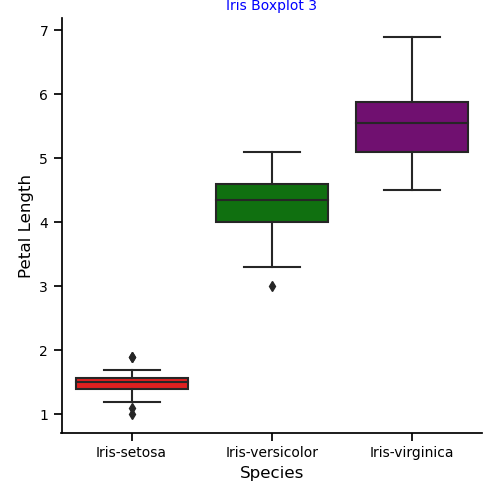
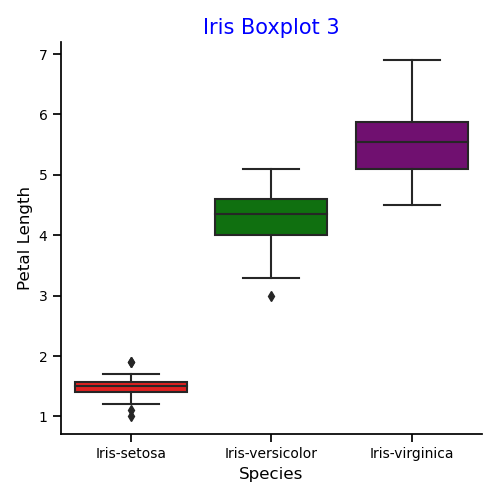
wokring on boxplots;scatter plots;updating readme file

diff --git a/visual.py b/visual.py
@@ -12,7 +12,6 @@ import seaborn as sns
 import pandas as pd 
 
 
-
 # Read in the original iris.data file and print its content
 iris = pd.read_csv('iris_ds.data', sep=',', header = None)
 print('The original file is with no column names:\n', iris)
@@ -43,6 +42,8 @@ def histplot(x):
                     wspace=0.5, 
                     hspace=1.0)            #adjusts spacing to make the subplots more legible
 
+# APPLYING THE FUNCTION TO PLOT INDIVIDUAL HISTOGRAMS
+
 plt.subplot(2,2,1)                         #set the number of (rows, columns, location) of each plot Top left
 histplot("Sepal Length")
 
@@ -54,131 +55,128 @@ histplot("Petal Length")
 
 plt.subplot(2,2,4)                          #Bottom right
 histplot("Petal Width")
+
 plt.savefig("Histogram_by features.png")    # save output image to png file
 plt.close()                                 # Close the plotting
 
-# This solution is for indovidually plotting a histogram for each feature
-plt.hist(iris2["Sepal Length"])
-plt.xlabel("cm")
-plt.ylabel("Count")
-plt.title("Sepal Length")
-plt.savefig("Hist_sepal_length.png")
+# SCATTER plots for each pair of the variables using Seaborn 
+# DEFINING A FUNCTION TO PLOT THE DESIRED GRAPH
+def scatter(x, y):
+    sns.set_context("notebook")
+    custom_palette=["red","green","purple"]
+    sns.set_palette(custom_palette)
+    g=sns.relplot(data=iris2, kind="scatter", hue="Species", x=x, y=y, height=5)
+    g.set(xlabel=x, ylabel=y)
+    sns.move_legend(g, loc="upper center", bbox_to_anchor=(.5, .9), ncol = 3)
+    plt.title('Iris Data Scatter Plot', color = 'blue', size = 15, y = 1.2)
+    plt.tight_layout()
+    
+# APPLYING THE FUNCTION TO PLOT INDIVISUAL SCATTER PLOTS
+scatter("Sepal Length", "Sepal Width")
+plt.savefig('Iris_ScatterPlot1.png')
 plt.close()
 
-plt.hist(iris2["Sepal Width"])
-plt.xlabel("cm")
-plt.ylabel("Count")
-plt.title("Sepal Width")
-plt.savefig("Hist_sepal_width.png")
+scatter("Petal Length", "Petal Width")
+plt.savefig('Iris_ScatterPlot2.png')
 plt.close()
 
-plt.hist(iris2["Petal Length"])
-plt.xlabel("cm")
-plt.ylabel("Count")
-plt.title("Petal Length")
-plt.savefig("Hist_petal_length.png")
+scatter("Petal Length", "Sepal Length")
+plt.savefig('Iris_ScatterPlot3.png')
 plt.close()
 
-plt.hist(iris2["Petal Width"])
-plt.xlabel("cm")
-plt.ylabel("Count")
-plt.title("Petal Width")
-plt.savefig("Hist_petal_width.png")
+scatter("Sepal Width", "Petal Width")
+plt.savefig('Iris_ScatterPlot4.png')
 plt.close()
 
-# Create scatter plots for each pair of the variables
 
-sns.set_context("notebook")
-custom_palette=["red","green","purple"]
-sns.set_palette(custom_palette)
-g=sns.relplot(data=iris2, kind="scatter", hue="Species", x="Sepal Length", y="Sepal Width", height=5)
-g.set(xlabel="Sepal Length", ylabel="Sepal Width") 
-plt.title('Iris Data Scatter Plot 1', color = 'blue', size = 10)
-plt.savefig('IrisDataScatterPlot1.png')
-plt.close()
-
-sns.set_context("notebook")
-custom_palette=["red","green","purple"]
-sns.set_palette(custom_palette)
-g=sns.relplot(data=iris2, kind="scatter", hue="Species", x="Sepal Length", y="Petal Length")
-g.set(xlabel="Sepal Length", ylabel="Petal Length")
-plt.title('Iris Data Scatter Plot 2', color = 'blue', size = 10)
-plt.savefig('IrisDataScatterPlot2.png')
-plt.close()
-
-sns.set_context("notebook")
-custom_palette=["red","green","purple"]
-sns.set_palette(custom_palette)
-g=sns.relplot(data=iris2, kind="scatter", hue="Species", x="Sepal Length", y="Petal Width")
-g.set(xlabel="Sepal Length", ylabel="Petal Width")
-plt.title('Iris Data Scatter Plot 3', color = 'blue', size = 10)
-plt.savefig('IrisDataScatterPlot3.png')
-plt.close()
-
-sns.set_context("notebook")
-custom_palette=["red","green","purple"]
-sns.set_palette(custom_palette)
-g=sns.relplot(data=iris2, kind="scatter", hue="Species", x="Petal Length", y="Petal Width")
-g.set(xlabel="Petal Length", ylabel="Petal Width")
-plt.title('Iris Data Scatter Plot 4', color = 'blue', size = 10)
-plt.savefig('IrisDataScatterPlot4.png')
-plt.close()
-
-# Create a matrix of plot using Seaborn PairGrid solution
-# Provides a faster and comprehensive summary of the individual pair plots
-# Helps understanding that data through clear visualization
+# Create a matrix of plots using Seaborn PairGrid solution
+# Provides a faster and more comprehensive summary of the individual pair plots
+# Helps understanding the data through clear visualization
 
 # This is to separate the attribute variables into a list
 features = ['Sepal Length', 'Sepal Width','Petal Length','Petal Width']
-# Use of Pairgrid setting diagonal plots to be histograms which will provide a distribution plot of each variable
+
+# Use of PAIRGRID setting diagonal plots to be histograms which will provide a distribution plot of each variable
 # Chose scatterplot to plot each individual data by the species of the flower
-g = sns.PairGrid(data=iris2, hue = "Species", vars = features, height=5, aspect=5/5)
-g.map_diag(sns.histplot)
-g.map_offdiag(sns.scatterplot)
-g.add_legend()
-g.fig.suptitle
-plt.title("Iris Data PairGrid Plot")
-plt.savefig('Iris_Features_PairPlot.png')
+
+g = sns.PairGrid(data=iris2, hue = "Species", vars = features, height=5, aspect=5/5) #hue is to group the data by different colours for the 3 species
+g.map_diag(sns.histplot)    #diagonal plots to be histograms
+g.map_offdiag(sns.scatterplot)  #other plots to be scatter plots
+g.add_legend()      # add legend to understand the colours
+g.fig.suptitle("Iris Data PairGrid Plot")   #add title to the pairplot
+plt.tight_layout()
+plt.savefig('Iris_Features_PairPlot.png')   #save image to png file
 plt.close()
 
-# Boxplot presentation of individual species, it allows
-# to draw comparison at a very high level between the flowers, but would need to be further broken down 
-# to be able to use the visualized data for prediction purposes
+# BOXPLOT presentation of individual species, it allows
+# to draw comparison at a very high level between the flowers.
+
 g=sns.catplot(data=iris2, kind="box", x="Species",y=features[0])
-plt.title("Iris Boxplot 1", c="Blue", size=10)
+plt.title("Iris Boxplot 1", c="Blue", size=15)
 plt.xticks(size=10)
 plt.yticks(size=10)
+plt.tight_layout()
 plt.savefig('Iris_BP_by_Species1.png')
 plt.close()
 
 g=sns.catplot(data=iris2, kind="box", x="Species",y=features[1])
-plt.title("Iris Boxplot 2", c="Blue", size=10)
+plt.title("Iris Boxplot 2", c="Blue", size=15)
 plt.xticks(size=10)
 plt.yticks(size=10)
+plt.tight_layout()
 plt.savefig('Iris_BP_by_Species2.png')
 plt.close()
 
 g=sns.catplot(data=iris2, kind="box", x="Species",y=features[2])
-plt.title("Iris Boxplot 3", c="Blue", size=10)
+plt.title("Iris Boxplot 3", c="Blue", size=15)
 plt.xticks(size=10)
 plt.yticks(size=10)
+plt.tight_layout()
 plt.savefig('Iris_BP_by_Species3.png')
 plt.close()
 
 g=sns.catplot(data=iris2, kind="box", x="Species",y=features[3])
-plt.title("Iris Boxplot 4", c="Blue", size=10)
+plt.title("Iris Boxplot 4", c="Blue", size=15)
 plt.xticks(size=10)
 plt.yticks(size=10)
+plt.tight_layout()
 plt.savefig('Iris_BP_by_Species4.png')
 plt.close()
 
-# The heatmap is very useful when trying to establish correlation between variables. 
+# ANOTHER WAY TO PREVIOUS SOLUTION FOR BOXPLOT VISUALIZATION
+# By using the pd.melt() function available in Pandas which allows to
+# Change the format of the dataframe and differentiate between identifier variables (Iris Species) 
+# and measured variables (Iris Features)
+# Creating new dataframe "iris3" to use for visualization purposes
 
+iris3 = pd.melt(iris2, id_vars=["Species"], value_vars=["Sepal Length", "Sepal Width", "Petal Length", "Petal Width"])
+
+# print(iris3.loc[::50]) - printed to see how the new df looked like, excluding as it is not required for this exercise 
+# print(iris3.head())  - printed to see first 5 lines, excluding as it is not required for this exercise
+
+# BOXPLOT VISUALIZATION using "iris3" dataframe
+sns.set_context("notebook")     #set the scale of the plot
+sns.set_style("whitegrid")         # set gridlines to run across the graph
+ax = sns.boxplot(data=iris3, x="variable", y="value", hue="Species")  # plotting data as boxplots in one plot
+# Moving legend from the plot "ax" using the bbox_to_anchor function, setting the number of species
+sns.move_legend(ax, "upper center", bbox_to_anchor=(.5, 1.1), ncol = 3, title=None, frameon = False) 
+# Setting the title of the plot with offset of "y" to space it away from the graph
+sns.despine()
+plt.title("Iris - Adjacent Boxplots", y=1.1)
+# using the tight layout function to ensure that all data/labels are included in the plot
+plt.tight_layout()
+plt.yticks(np.arange(0, 10, step=1))
+plt.savefig('Iris_Adjacent_Boxplot.png')
+plt.close()
+
+
+# The HEATMAP is very useful when trying to establish correlation between variables. 
+# Used Seaborn to generate heatmap, used formatting to make it more presentable
 sns.heatmap(iris2.corr(), annot=True, cmap="Purples", linewidths=1.5, linecolor="white", xticklabels=True, yticklabels=True)
 sns.set_context("notebook", font_scale=1)
 plt.title("Iris Attributes - Heatmap", c="Blue", size=15)
 plt.xticks(size=10)
-plt.yticks(rotation=90, size=10) # rotation of ylabel test as it was not showing on the plot with the full text length
+plt.yticks(rotation=90, size=10) # rotation of ylabel text as it was not showing on the plot with the full text length
 plt.savefig('Iris_Heatmap.png')
 plt.close()
 

diff --git a/analysis.py b/analysis.py
@@ -2,6 +2,7 @@
 
 # Author Eva Czeyda-Pommersheim
 
+from multiprocessing import Value
 from statistics import stdev
 from isort import file
 from nbformat import write

diff --git a/README.md b/README.md
@@ -17,9 +17,11 @@ The Iris dataset is one of the first historical datasets used for multivariate d
 
 The dataset consists of 50 samples of 3 different types of the Iris flower (Iris-setosa, Iris-Versicolour and Iris-Virginica). Each sample is described based on 4 features (sepal length, sepal width, petal length and petal width), all four features measured in cm-s.
 
-The dataset has been analyzed by multiple papers. It is a simple enough dataset which can be, and is commonly used to understand concepts of data analytics and machine learning. The dataset allows to understand concepts of determining similarities and differences of certain variables, in this case the three flower species and their dimensions. Statistical analysis of the data may be used for classification, prediction, modelling purposes. The data can be presented in various ways to allow conclusions to be drawn using the variables/features and utilize the outcomes to reflect on the three species or even to predict the class of a newly discovered Iris flower.</p>
-<img src="Images_irisflower.png" width="500">
-<img src="https://ars.els-cdn.com/content/image/3-s2.0-B9780128147610000034-f03-01-9780128147610.jpg" width="300">
+The dataset has been analyzed by multiple papers. It is a simple enough dataset which can be, and is commonly used to understand concepts of data analytics and machine learning. The dataset allows to understand concepts of determining similarities and differences of certain variables, in this case the three flower species and their dimensions. Statistical analysis of the data may be used for classification, prediction, modelling purposes. The data can be presented in various ways to allow conclusions to be drawn using the variables/features and utilize the outcomes to reflect on the three species or even to predict the class of a newly discovered Iris flower.</p
+
+<p align="center">
+    <img src="Images_irisflower.png" width="600">
+    <img src="https://ars.els-cdn.com/content/image/3-s2.0-B9780128147610000034-f03-01-9780128147610.jpg" width="300">
 
 II. INVESTIGATION
 
@@ -48,6 +50,8 @@ NumPy stands for Numerical Python. Ref [What is NumPy](https://www.w3schools.com
 The dataset was downloaded from Ref [UCI Machine Learning Repository](https://archive.ics.uci.edu/ml/datasets/iris) as iris.data file. This file is with a .data extension which is commonly used for storeing datasets. Python's Pandas library command read_csv provides a solution to convert read this file as a CSV (Comma separated file).<br>
 When reading the file in its original version it was noted that the columns have no headers/names.
 Based on the attribute data as per names.data file also available @ Ref [UCI Machine Learning Repository](https://archive.ics.uci.edu/ml/datasets/iris) a list [cols] was created and added to the file under a new dataframe called iris2.<br>
+
+<p align="center">
 <img src="Import_Head_Dataset.PNG" width = "500">
 
 3. ANALYZING THE DATASET<br>
@@ -61,32 +65,35 @@ Ref [Write command line output to a file](https://stackoverflow.com/questions/90
 
 A lot of the data included in [summary.txt](/pands-project/summary.txt) can be represented in a graphical way also. Python libraries utilized in this visualization attempt were Matplotlib and Seaborn. Seaborn is built upon Matplotlib and is widely used for representing data in a highly efficient manner. The approach followed in this project is included and detailed in the file [visual.py](/pands-project/visual.py).<br>
 Historgrams were used to plot each variable (feature): Sepal Length, Sepal Width, Petal Length and Petal width. Histograms provide information about the distribution of the datapoints for each feature. Pictures of each histogram can be found in this Github repository.<br>
-
-<img src="Histogram_by features.png" width="300"><br>
+<p align="center">
+<img src="Histogram_by features.png" width="500"><br>
 
 The plots allow to determine the dimensions of each feature and the most frequent values they occure with, but as some of the data do not prove to be following a normal distribution it is not easy to determine the mean values or the standard deviation for each feature based on these plots. In addition, the historgrams do not provide a breakdown of the species on the individual graphs.<br>
 
 Although individual scatter plots were also generated to examine the distribution of the datapoints by differentiating between the species of the flowers. The PairGrid option in Seaborn allowed a more efficient presentation of all datapoints on scatterplots as well as distribution plots (Histograms) diagonally.
 
-<img src="IrisDataScatterPlot1.png" width="300"> <img src="IrisDataScatterPlot2.png" width="300"><br>
+<p align="center"><img src="Iris_ScatterPlot1.png" width="300"> <img src="Iris_ScatterPlot2.png" width="300"><br>
 
-<img src="IrisDataScatterPlot3.png" width="300"> <img src="IrisDataScatterPlot4.png" width="300">
+<p align="center"><img src="Iris_ScatterPlot3.png" width="300"> <img src="Iris_ScatterPlot4.png" width="300">
 
-
-<img src="Iris_Features_PairPlot.png" width="400">
+<p align="center"><img src="Iris_Features_PairPlot.png" width="600">
 
 The plots show that the Iris-Setosa datapoints are isolated compared to the other two species. Both petal length and petal width for Iris-setosa show significantly smaller dimensions compared to Iris-Versicolor and Iris-Virginica. On this pairgrid additional insight is gained to the histograms (diagonal plots for each feature). The red colour for Iris Setosa accumulates in the lower range of values for all features except for Sepal Width where it seems have a spread of values, in the higher end of the value range. The histograms also show Iris-setosa petal dimensions are isolated from the other two species and only very little overlap is present between Iris-versicolor and Iris-virginica.<br>
 
 Box plots present a more complex way to visualize data and consequently can tell more information about each feature and flower species. Boxplots detail the minimum and maximum values of the datapoints in each distribution, the 25th, 50th (Median) and 75th percentile and also give indication about any outliers in the distribution.
 
+<p align="center">
 <img src="Iris_BP_by_Species1.png" width="300"> <img src="Iris_BP_by_Species2.png" width="300"><br>
-<img src="Iris_BP_by_Species3.png" width="300"> <img src="Iris_BP_by_Species4.png" width="300">
+<img src="Iris_BP_by_Species3.png" width="300"> <img src="Iris_BP_by_Species4.png" width="300"><br>
+
+<p align="center">
+<img src="Iris_Adjacent_Boxplot.png" width="300"><br>
 
 On review of the boxplots for each feature by flower species, it is evident that based on the petal length it would be very easy to conclude if a flower is Iris Setosa. It would prove more difficult to differentiate between Iris-Versicolor and Iris-Virginica based on the petal length values as there is still some overlap across the distribution of the datapoints.<br>
 Sepal dimensions have a much wider range of values across all three species. Consequently, sepal features would not be suitable to be used for classification purposes.<br>
 
 Finally, correlation was also assessed. Correlation is commonly used for prediction purposes. A heatmap was prepared to visualize the correlation values, which were already detailed in the summary.txt file.<br>
-
+<p align="center">
 <img src="Iris_Heatmap.png" width="400">
 
 The scale on the right hand side of the heatmap indicates the colour scale of the correlation value, the closer it is to the value of 1 the stronger the correlation between the features is. Sepal width clearly shows no correlation with any of the other features. There seems to be stonger correlation between Sepal length and Petal Length/Petal Width as well as Petal Length and Petal Width.
@@ -109,15 +116,16 @@ The sepal dimensions however are not that straight forward and further tools wou
 - [Hist_petal_width.png](/pands-project/Hist_petal_width.png)
 - [Hist_sepal_length.png](/pands-project/Hist_sepal_length.png)
 - [Hist_sepal_width.png](/pands-project/Hist_sepal_width.png)
-- [IrisDataScatterPlot1.png](/pands-project/IrisDataScatterPlot1.png)
-- [IrisDataScatterPlot2.png](/pands-project/IrisDataScatterPlot2.png)
-- [IrisDataScatterPlot3.png](/pands-project/IrisDataScatterPlot3.png)
-- [IrisDataScatterPlot4.png](/pands-project/IrisDataScatterPlot4.png)
+- [Iris_ScatterPlot1.png](/pands-project\Iris_ScatterPlot1.png)
+- [Iris_ScatterPlot2.png](/pands-project\Iris_ScatterPlot2.png)
+- [Iris_ScatterPlot3.png](/pands-project\Iris_ScatterPlot3.png)
+- [Iris_ScatterPlot4.png](/pands-project\Iris_ScatterPlot4.png)
 - [Iris_Features_PairPlot.png](/pands-project/Iris_Features_PairPlot.png)
 - [Iris_BP_by_Species1.png](/pands-project/Iris_BP_by_Species1.png)
 - [Iris_BP_by_Species2.png](/pands-project/Iris_BP_by_Species2.png)
 - [Iris_BP_by_Species3.png](/pands-project/Iris_BP_by_Species3.png)
 - [Iris_BP_by_Species4.png](/pands-project/Iris_BP_by_Species4.png)
+- [Iris_Adjacent_Boxplot.png](/pands-project/Iris_Adjacent_Boxplot.png)
 - [Iris_Heatmap.png](/pands-project/Iris_Heatmap.png)
 - [Images_irisflower.png](/pands-project/Images_irisflower.png)
 - [iris_ds.data](/pands-project/iris_ds.data)
@@ -141,5 +149,11 @@ The sepal dimensions however are not that straight forward and further tools wou
 - <https://www.youtube.com/watch?v=HXi9cl5Aq5w>
 - <https://www.youtube.com/watch?v=02BFXhPQWHQ>
 - <https://www.youtube.com/watch?v=pTjsr_0YWas>
-- <https://www.techwalla.com/articles/how-to-make-a-header-row-in-a-csv-file>
+- Make a header row in csv file<https://www.techwalla.com/articles/how-to-make-a-header-row-in-a-csv-file>
 - Write command line output to a file [https://stackoverflow.com/questions/9003522/writing-command-line-output-to-file#:~:text=After%20that%20you%20can%20simple,functions%3A%20File%20IO%20in%20python.&text=is%20not%20useful-,Show%20activity%20on%20this%20post.,writing%2C%20and%20a%20for%20appending].
+- Exploratory Data Analysis on Iris Dataset, 26 Apr, 2022, GeeksforGeeks.org Available at:[https://www.geeksforgeeks.org/exploratory-data-analysis-on-iris-dataset/]
+- Centering image on ReadMe.md file [https://stackoverflow.com/questions/12090472/how-do-i-center-an-image-in-the-readme-md-file-on-github]
+- [https://seaborn.pydata.org/generated/seaborn.move_legend.html?highlight=move%20legend#seaborn.move_legend]
+- [https://pandas.pydata.org/docs/reference/api/pandas.melt.html]
+- StackOverflow, Available at:[https://stackoverflow.com/questions/25068384/bbox-to-anchor-and-loc-in-matplotlib]
+- StackOverflow, Available at:[https://stackoverflow.com/questions/64192059/using-a-for-loop-to-create-three-adjacent-box-plots-for-each-of-the-numeric-vari]
